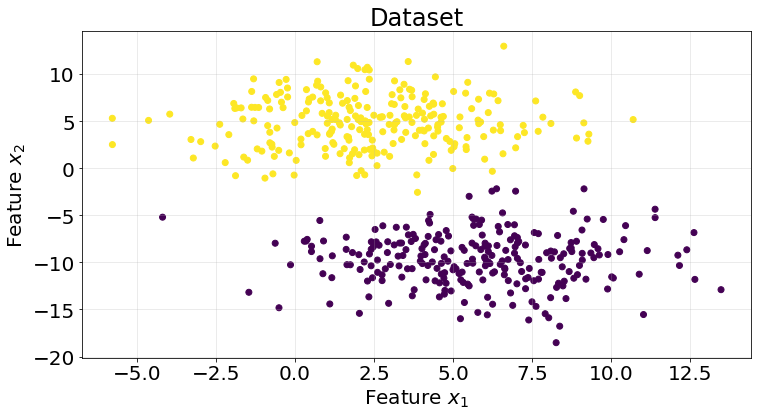
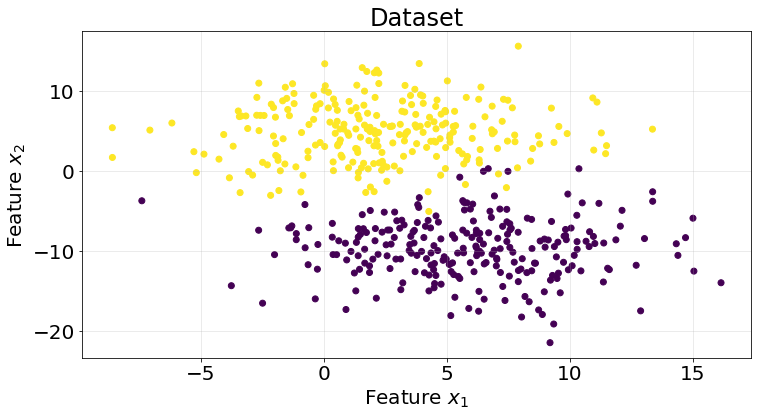
Built site for gh-pages

diff --git a/posts/24_08_2024_ml_notes_5.html b/posts/24_08_2024_ml_notes_5.html
@@ -272,7 +272,7 @@ window.Quarto = {
 <p><span class="math display">\[
 x_{i} \cdot w + b = 0 \ \text{for some data point $i$},
 \]</span></p>
-<p>where <span class="math inline">\(x_{i} \in \R^{1,p}\)</span> is the <span class="math inline">\(i\)</span>-th row of a matrix of features <span class="math inline">\(X \in \R^{n,p}\)</span> and represents a single data point. <span class="math inline">\(n\)</span> and <span class="math inline">\(p\)</span> are the number of samples and features respectively. The parameter <span class="math inline">\(b\in \R^{1}\)</span> is the intercept, which is convenient to separate from the column-vector of coefficients <span class="math inline">\(w \in \R^{p,1}\)</span>.</p>
+<p>where <span class="math inline">\(x_{i} \in \mathbb{R}^{1,p}\)</span> is the <span class="math inline">\(i\)</span>-th row of a matrix of features <span class="math inline">\(X \in \mathbb{R}^{n,p}\)</span> and represents a single data point. <span class="math inline">\(n\)</span> and <span class="math inline">\(p\)</span> are the number of samples and features respectively. The parameter <span class="math inline">\(b\in \mathbb{R}^{1}\)</span> is the intercept, which is convenient to separate from the column-vector of coefficients <span class="math inline">\(w \in \mathbb{R}^{p,1}\)</span>.</p>
 <p><strong>DISCLAIMER:</strong> the notation is used somewhat loosely during this post.</p>
 </section>
 <section id="hard-margin-svm" class="level3">
@@ -417,7 +417,7 @@ J(w,b) = ||w||^2 + C \cdot \dfrac{1}{n} \sum_{i=0}^{n}1 - y_{i}(x_{i} \cdot w + 
 <span id="cb3-56"><a href="#cb3-56" aria-hidden="true" tabindex="-1"></a>        <span class="cf">return</span> y_pred</span></code><button title="Copy to Clipboard" class="code-copy-button"><i class="bi"></i></button></pre></div>
 </div>
 <div id="cell-11" class="cell" data-execution_count="4">
-<div class="sourceCode cell-code" id="cb4"><pre class="sourceCode python code-with-copy"><code class="sourceCode python"><span id="cb4-1"><a href="#cb4-1" aria-hidden="true" tabindex="-1"></a>X, y <span class="op">=</span> make_blobs(n_samples<span class="op">=</span><span class="dv">500</span>, n_features<span class="op">=</span><span class="dv">2</span>, centers<span class="op">=</span><span class="dv">2</span>, random_state<span class="op">=</span><span class="dv">10</span>, cluster_std<span class="op">=</span><span class="dv">3</span>)</span>
+<div class="sourceCode cell-code" id="cb4"><pre class="sourceCode python code-with-copy"><code class="sourceCode python"><span id="cb4-1"><a href="#cb4-1" aria-hidden="true" tabindex="-1"></a>X, y <span class="op">=</span> make_blobs(n_samples<span class="op">=</span><span class="dv">500</span>, n_features<span class="op">=</span><span class="dv">2</span>, centers<span class="op">=</span><span class="dv">2</span>, random_state<span class="op">=</span><span class="dv">10</span>, cluster_std<span class="op">=</span><span class="dv">4</span>)</span>
 <span id="cb4-2"><a href="#cb4-2" aria-hidden="true" tabindex="-1"></a></span>
 <span id="cb4-3"><a href="#cb4-3" aria-hidden="true" tabindex="-1"></a>fig, ax <span class="op">=</span> plt.subplots(<span class="dv">1</span>, <span class="dv">1</span>, figsize<span class="op">=</span>(<span class="dv">12</span>, <span class="dv">6</span>))</span>
 <span id="cb4-4"><a href="#cb4-4" aria-hidden="true" tabindex="-1"></a></span>
@@ -457,11 +457,11 @@ J(w,b) = ||w||^2 + C \cdot \dfrac{1}{n} \sum_{i=0}^{n}1 - y_{i}(x_{i} \cdot w + 
 <span id="cb5-19"><a href="#cb5-19" aria-hidden="true" tabindex="-1"></a>    score <span class="op">=</span> roc_auc_score(y_true<span class="op">=</span>y_test, y_score<span class="op">=</span>y_pred)</span>
 <span id="cb5-20"><a href="#cb5-20" aria-hidden="true" tabindex="-1"></a>    roc_scores.append(score)</span></code><button title="Copy to Clipboard" class="code-copy-button"><i class="bi"></i></button></pre></div>
 </div>
-<p>An average of 0.96 on classification tasks for this particular dataset.</p>
-<div id="cell-14" class="cell" data-execution_count="7">
+<p>An average of 0.94 on classification tasks for this particular dataset.</p>
+<div id="cell-14" class="cell" data-execution_count="6">
 <div class="sourceCode cell-code" id="cb6"><pre class="sourceCode python code-with-copy"><code class="sourceCode python"><span id="cb6-1"><a href="#cb6-1" aria-hidden="true" tabindex="-1"></a>np.mean(roc_scores)</span></code><button title="Copy to Clipboard" class="code-copy-button"><i class="bi"></i></button></pre></div>
-<div class="cell-output cell-output-display" data-execution_count="7">
-<pre><code>0.9682883377958618</code></pre>
+<div class="cell-output cell-output-display" data-execution_count="6">
+<pre><code>0.941089620821495</code></pre>
 </div>
 </div>
 </section>

diff --git a/index.html b/index.html
@@ -205,7 +205,7 @@ window.Quarto = {
 
 <div class="quarto-listing quarto-listing-container-default" id="listing-listing">
 <div class="list quarto-listing-default">
-<div class="quarto-post image-right" data-index="0" data-categories="machine learning,python,support vector machine" data-listing-date-sort="1724450400000" data-listing-file-modified-sort="1724497604180" data-listing-date-modified-sort="NaN" data-listing-reading-time-sort="5" data-listing-word-count-sort="865">
+<div class="quarto-post image-right" data-index="0" data-categories="machine learning,python,support vector machine" data-listing-date-sort="1724450400000" data-listing-file-modified-sort="1724497984482" data-listing-date-modified-sort="NaN" data-listing-reading-time-sort="5" data-listing-word-count-sort="865">
 <div class="thumbnail">
 <p><a href="./posts/24_08_2024_ml_notes_5.html" class="no-external"></a></p><a href="./posts/24_08_2024_ml_notes_5.html" class="no-external">
 <p class="card-img-top"><img src="posts/24_08_2024_ml_notes_5_files/figure-html/cell-3-output-1.png"  class="thumbnail-image card-img"/></p>
